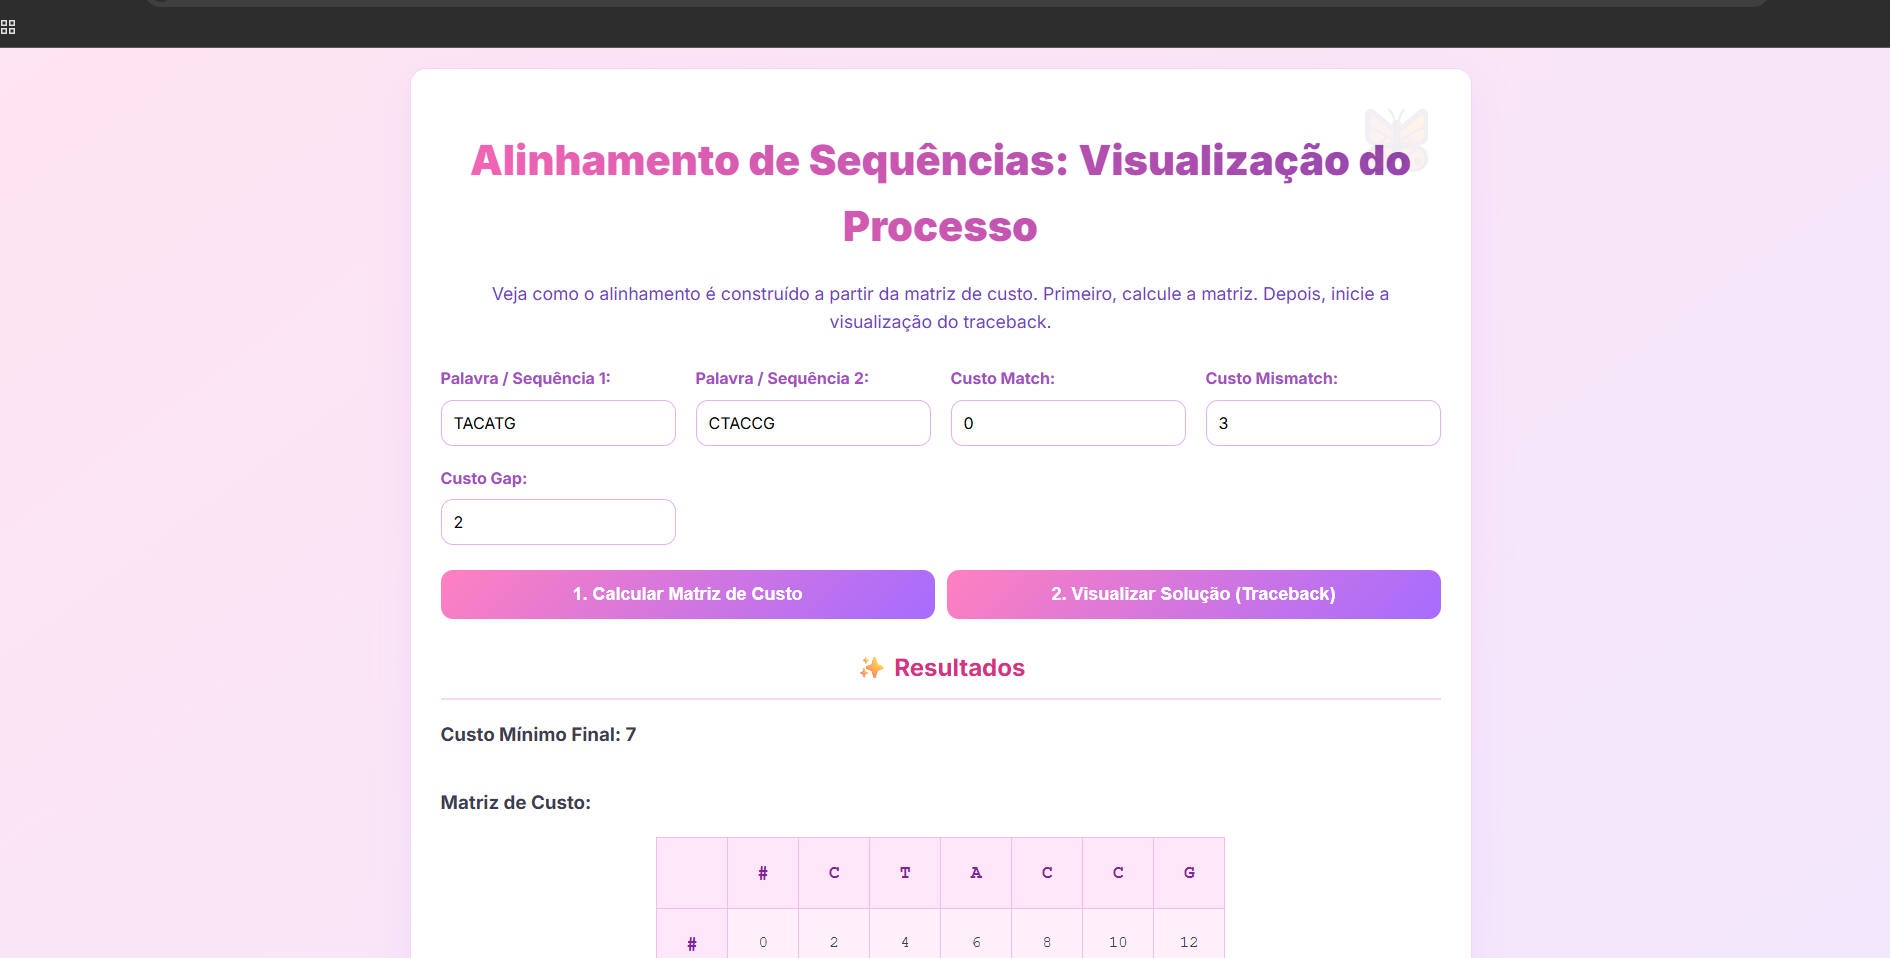
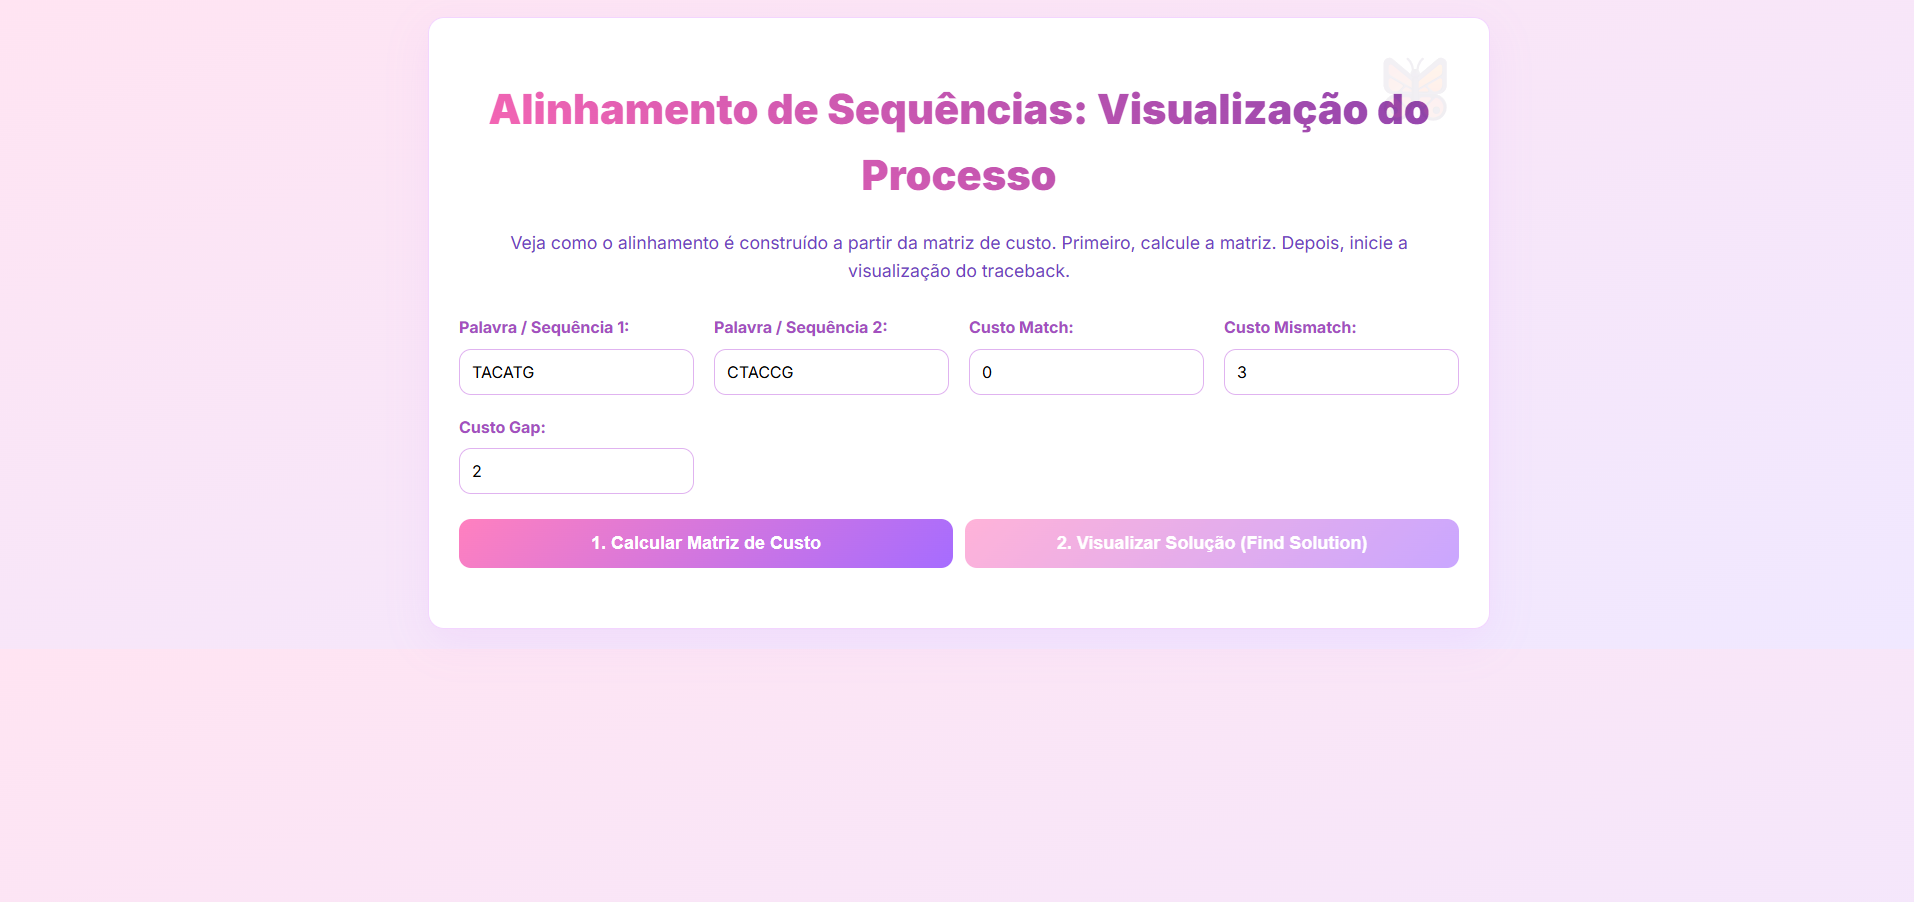
Fix: nome das lacunas

Changed region(s): [[0.0, 0.0, 1.0, 1.0], [0.6243, 0.3415, 0.718, 0.4656]]

diff --git a/index.html b/index.html
@@ -36,7 +36,7 @@
 
         <div class="button-group">
             <button id="calculate-btn" onclick="calculateMatrix()">1. Calcular Matriz de Custo</button>
-            <button id="visualize-btn" onclick="visualizeTraceback()" disabled>2. Visualizar Solução (Traceback)</button>
+            <button id="visualize-btn" onclick="visualizeTraceback()" disabled>2. Visualizar Solução (Find Solution)</button>
         </div>
         
         <div id="results">

diff --git a/README.md b/README.md
@@ -55,8 +55,8 @@ ou
 
 1. Escolher duas palavras;
 2. Definir os pesos de match, mismatch e gap;
-3. Clicar em "Calcular Matriz" para gerar a matriz de custo;
-4. Se desejar ver uma das formas que o algoritmo pode seguir para chegar ao custo mínimo, clique em "Visualizar Solução".
+3. Clicar em `Calcular Matriz do Custo` para gerar a matriz de custo;
+4. Se desejar ver uma das formas que o algoritmo pode seguir para chegar ao custo mínimo, clique em `Visualizar Solução (Find Solution)`.
 
 ## Link do Vídeo
 
